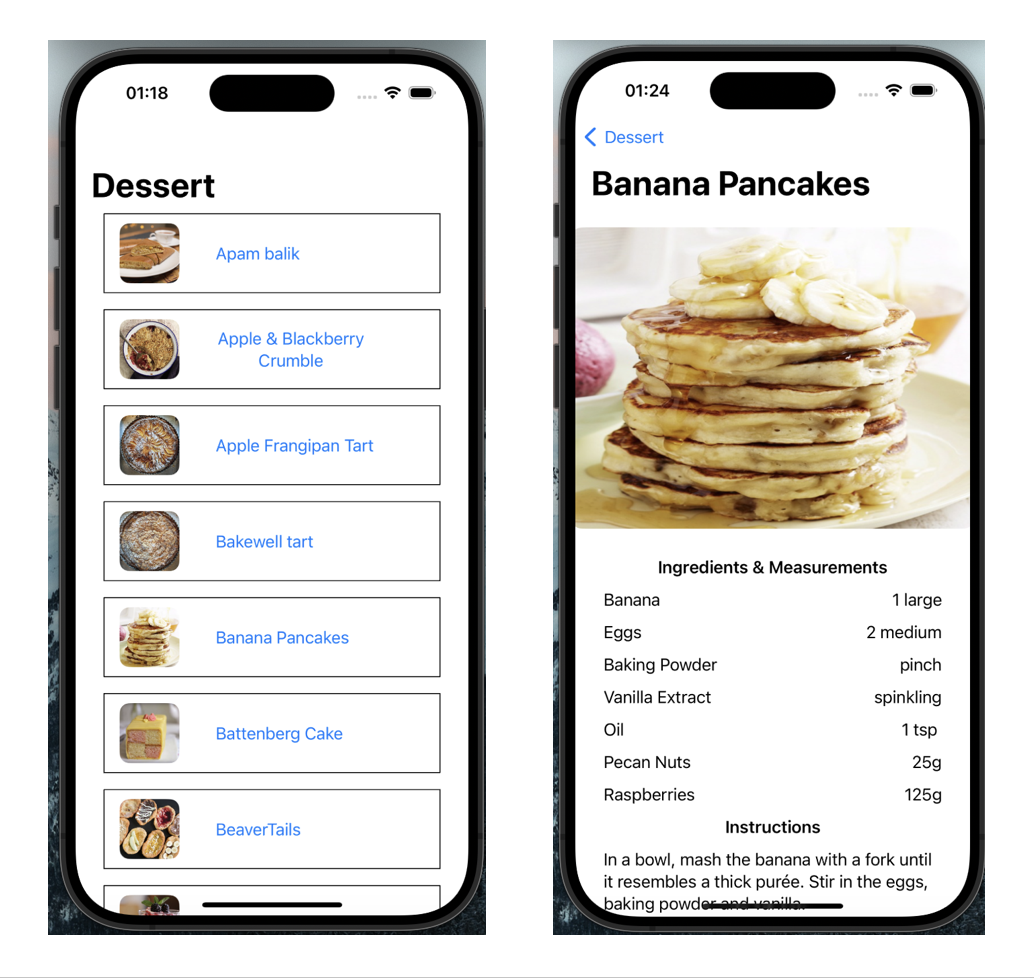
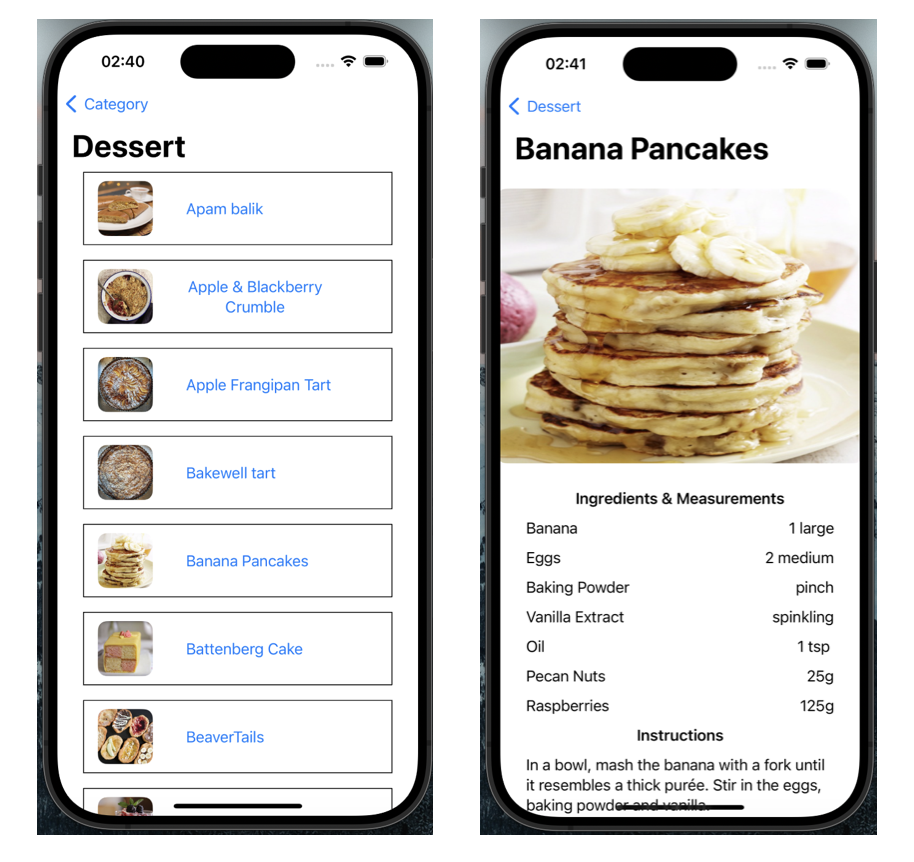
Add Menu View

diff --git a/Meal/View/MealDetailView.swift b/Meal/View/MealDetailView.swift
@@ -8,30 +8,21 @@
 import SwiftUI
 
 struct MealDetailView: View {
+    
     @StateObject var mealDetailVM = MealDetailViewModel()
 
     let idMeal: String
     let mealName: String
     let strMealThumb: String
     
-    @State var loading: Bool = true
-    @State var error: Bool = false
-    @State var errMsg: String? = nil
-    
-    @State var mealDetail: MealDetail? = nil
-    @State var ingredientsMap: [[String]]? = nil
-    
     var body: some View {
         ZStack(alignment: .center) {
-            if loading{
-                ProgressView("Loading")
-            } else if error {
-                Text(errMsg ?? "Error!")
-            } else {
+            switch mealDetailVM.phase {
+            case .success(let mealDetail):
                 ScrollView {
                     VStack(alignment: .center, spacing: 12) {
                         RemoteImage(url: self.strMealThumb, width: 400, height: 300, cornerRadius: 10).padding()
-                        if let ingredientsMap = ingredientsMap {
+                        if let ingredientsMap = mealDetailVM.ingredientsMap {
                             Text("Ingredients & Measurements").bold()
                             ForEach(ingredientsMap, id: \.self) { im in
                                 HStack {
@@ -42,28 +33,20 @@ struct MealDetailView: View {
                             }
                         }
                         Text("Instructions").bold()
-                        Text(self.mealDetail?.strInstructions ?? "")
+                        Text(mealDetail.strInstructions)
                     }.frame(minWidth: 0, maxWidth: .infinity, alignment: .center)
-                    .padding(.horizontal, 28)
+                        .padding(.horizontal, 28)
                 }
+            case .failure(let error):
+                Text(error.localizedDescription)
+            case .empty:
+                ProgressView("Loading")
             }
         }
         .navigationTitle(self.mealName)
         .task{
             await mealDetailVM.loadMealDetail(from: idMeal)
-            switch mealDetailVM.phase {
-            case .success(let mealDetail):
-                self.mealDetail = mealDetail
-                self.ingredientsMap = mealDetailVM.createIngredientsMap(mealDetail)
-                self.loading = false
-            case .failure(let error):
-                self.error = true
-                self.errMsg = error.localizedDescription
-            case .empty:
-                self.loading = true
-            }
         }
-        
     }
 }
 

diff --git a/Meal/View/MealListView.swift b/Meal/View/MealListView.swift
@@ -32,49 +32,30 @@ struct MealListView: View {
     
     let category: String
     
-    @State var loading: Bool = true
-    @State var error: Bool = false
-    @State var errMsg: String? = nil
-    
-    @State var meals: [Meal]? = nil
-    
     var body: some View {
         ZStack(alignment: .center) {
-            if (loading) {
-                ProgressView("Loading")
-            } else if (error) {
-                Text(errMsg ?? "Error!")
-            }
-            else {
+            switch mealsVM.phase {
+            case .success(_):
                 ScrollView {
-                    VStack(spacing: 16) {
-                        if let meals = meals {
-                            ForEach(meals) { Meal in
-                                MealBlock(idMeal: Meal.idMeal, strMeal: Meal.strMeal, strMealThumb: Meal.strMealThumb)
-                            }
-                        }
-                    }.frame(minWidth: 0, maxWidth: .infinity, alignment: .leading)
-                    .padding(.horizontal, 28)
+                    if let meals = mealsVM.meals {
+                        VStack(spacing: 16) {
+                                ForEach(meals) { Meal in
+                                    MealBlock(idMeal: Meal.idMeal, strMeal: Meal.strMeal, strMealThumb: Meal.strMealThumb)
+                                }
+                        }.frame(minWidth: 0, maxWidth: .infinity, alignment: .leading)
+                        .padding(.horizontal, 28)
+                    }
                 }
+            case .failure(let error):
+                Text(error.localizedDescription)
+            case .empty:
+                ProgressView("Loading")
             }
         }
         .navigationTitle(self.category)
         .task{
             await mealsVM.loadMeals(from:self.category)
-            switch mealsVM.phase {
-            case .success(let meals):
-                self.meals = mealsVM.sortMealsAlphabetically(meals)
-                self.loading = false
-            case .failure(let error):
-                self.error = true
-                self.errMsg = error.localizedDescription
-            case .empty:
-                self.loading = true
-            }
         }
-        
     }
-    
-    
 }
 

diff --git a/Meal/ViewModel/MealDetailViewModel.swift b/Meal/ViewModel/MealDetailViewModel.swift
@@ -11,6 +11,8 @@ import Foundation
 class MealDetailViewModel: ObservableObject {
     
     @Published var phase = DataFetchPhase<MealDetail>.empty
+    @Published var mealDetail: MealDetail? = nil
+    @Published var ingredientsMap: [[String]]? = nil
     
     private let mealsAPI = MealsAPI.shared
     
@@ -21,6 +23,10 @@ class MealDetailViewModel: ObservableObject {
             if Task.isCancelled { return }
             if let mealDetail = mealDetail {
                 DispatchQueue.main.async {
+                    self.mealDetail = mealDetail[0]
+                    if self.mealDetail != nil {
+                        self.ingredientsMap = self.createIngredientsMap(self.mealDetail!)
+                    }
                     self.phase = .success(mealDetail[0])
                 }
             }

diff --git a/Meal/ViewModel/MealsViewModel.swift b/Meal/ViewModel/MealsViewModel.swift
@@ -13,6 +13,8 @@ class MealsViewModel: ObservableObject {
     
     @Published var phase = DataFetchPhase<[Meal]>.empty
     
+    @Published var meals: [Meal]? = nil
+    
     private let mealsAPI = MealsAPI.shared
     
     func loadMeals(from category: String) async {
@@ -22,6 +24,7 @@ class MealsViewModel: ObservableObject {
             if Task.isCancelled { return }
             if let meals = meals {
                 DispatchQueue.main.async {
+                    self.meals = self.sortMealsAlphabetically(meals)
                     self.phase = .success(meals)
                 }
             }

diff --git a/Meal/View/MenuView.swift b/Meal/View/MenuView.swift
@@ -1,0 +1,24 @@
+//
+//  MenuView.swift
+//  Meal
+//
+//  Created by Catherine on 11/7/23.
+//
+
+import SwiftUI
+
+struct MenuView: View {
+    var body: some View {
+        List{
+            ForEach(Category().items, id: \.self) { category in
+                NavigationLink(destination: MealListView(category: category)){
+                    Text(category)
+                }
+            }
+        }.navigationTitle("Category")
+    }
+}
+
+#Preview {
+    MenuView()
+}

diff --git a/Meal/View/ContentView.swift b/Meal/View/ContentView.swift
@@ -8,10 +8,9 @@
 import SwiftUI
 
 struct ContentView: View {
-    let category: String = "Dessert"
     var body: some View {
         NavigationView{
-            MealListView(category: self.category)
+            MenuView()
         }
     }
 }

diff --git a/Meal/Model/Category.swift b/Meal/Model/Category.swift
@@ -1,0 +1,12 @@
+//
+//  Category.swift
+//  Meal
+//
+//  Created by Catherine on 11/7/23.
+//
+
+import Foundation
+
+struct Category {
+    let items: [String] = ["Dessert"]
+}
